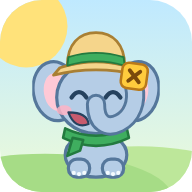
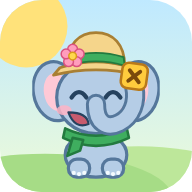
فلفولة: زهرة على القبعة وصورة معاينة جديدة للروابط، وحذف أيقونة الخوخ من خيارات الشخصيات، ورفع نسخة الذاكرة المؤقتة إلى v107

Changed region(s): [[0.3125, 0.2188, 0.4375, 0.375]]

diff --git a/js/world.js b/js/world.js
@@ -114,6 +114,7 @@ const World = (() => {
     <path d="M26 44q34-11 68 0l6 7q-40-10-80 0z" fill="#f5d58b" stroke="#a97f33" stroke-width="2.6" stroke-linejoin="round"/>
     <path d="M33 42c0-20 11-31 27-31s27 11 27 31q-27-8-54 0z" fill="#f5d58b" stroke="#a97f33" stroke-width="2.6" stroke-linejoin="round"/>
     <path d="M33 42q27-8 54 0l-1-8q-26-8-52 0z" fill="#3fae5f" stroke="#237a3f" stroke-width="1.8" stroke-linejoin="round"/>
+    <g transform="translate(38 33)" stroke="#d9527f" stroke-width="1.4"><g fill="#ff9dbd"><circle cx="0" cy="-6.5" r="4.6"/><circle cx="6.2" cy="-2" r="4.6"/><circle cx="3.8" cy="5.3" r="4.6"/><circle cx="-3.8" cy="5.3" r="4.6"/><circle cx="-6.2" cy="-2" r="4.6"/></g><circle r="3.6" fill="#ffd84d" stroke="#d99a1c"/></g>
     <ellipse cx="30" cy="84" rx="7" ry="4.6" fill="#ffb3c4" opacity=".85"/><ellipse cx="90" cy="84" rx="7" ry="4.6" fill="#ffb3c4" opacity=".85"/>
     ${EYES[m]}
     ${MOUTH[m]}

diff --git a/js/data.js b/js/data.js
@@ -161,7 +161,7 @@ const AVATARS = [
   // من بيئة الغابة
   '🌴', '🌳', '🌲', '🌿', '🍃', '🌵', '🍄', '🪴', '🌾', '🍁', '🌈', '🏝', '🌋',
   // فواكه
-  '🍎', '🍊', '🍋', '🍌', '🍉', '🍇', '🍓', '🍒', '🍑', '🥭', '🍍', '🥥', '🥝', '🍐', '🫐',
+  '🍎', '🍊', '🍋', '🍌', '🍉', '🍇', '🍓', '🍒', '🥭', '🍍', '🥥', '🥝', '🍐', '🫐',
   // خضروات
   '🥕', '🌽', '🥦', '🍅', '🥒', '🫑', '🍆', '🥔', '🧅', '🥬', '🫛', '🧄',
 ];

diff --git a/sw.js b/sw.js
@@ -1,6 +1,6 @@
 // يحفظ ملفات اللعبة على الجهاز لتعمل بدون إنترنت
 // غيّر رقم الإصدار عند تعديل أي ملف حتى يحدَّث الكاش
-const CACHE = 'jungle-hero-v106';
+const CACHE = 'jungle-hero-v107';
 const FILES = [
   './',
   'index.html',
